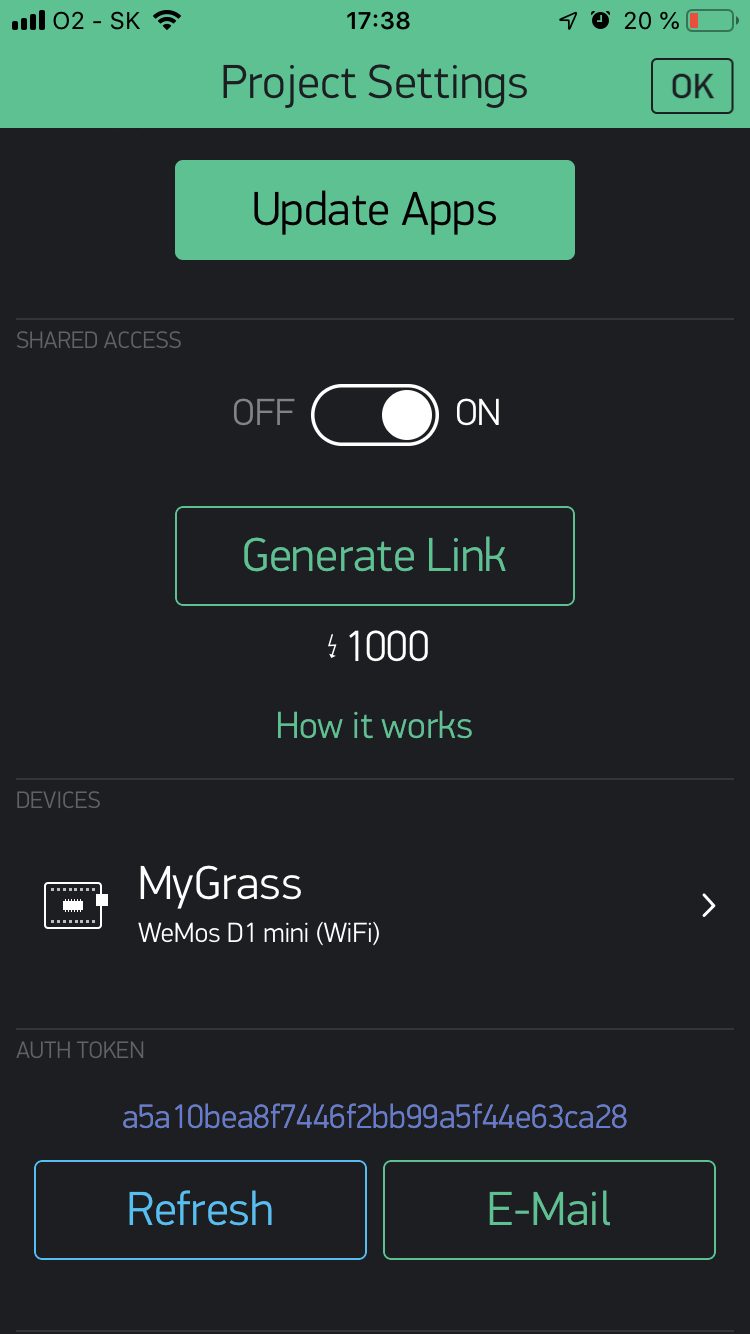
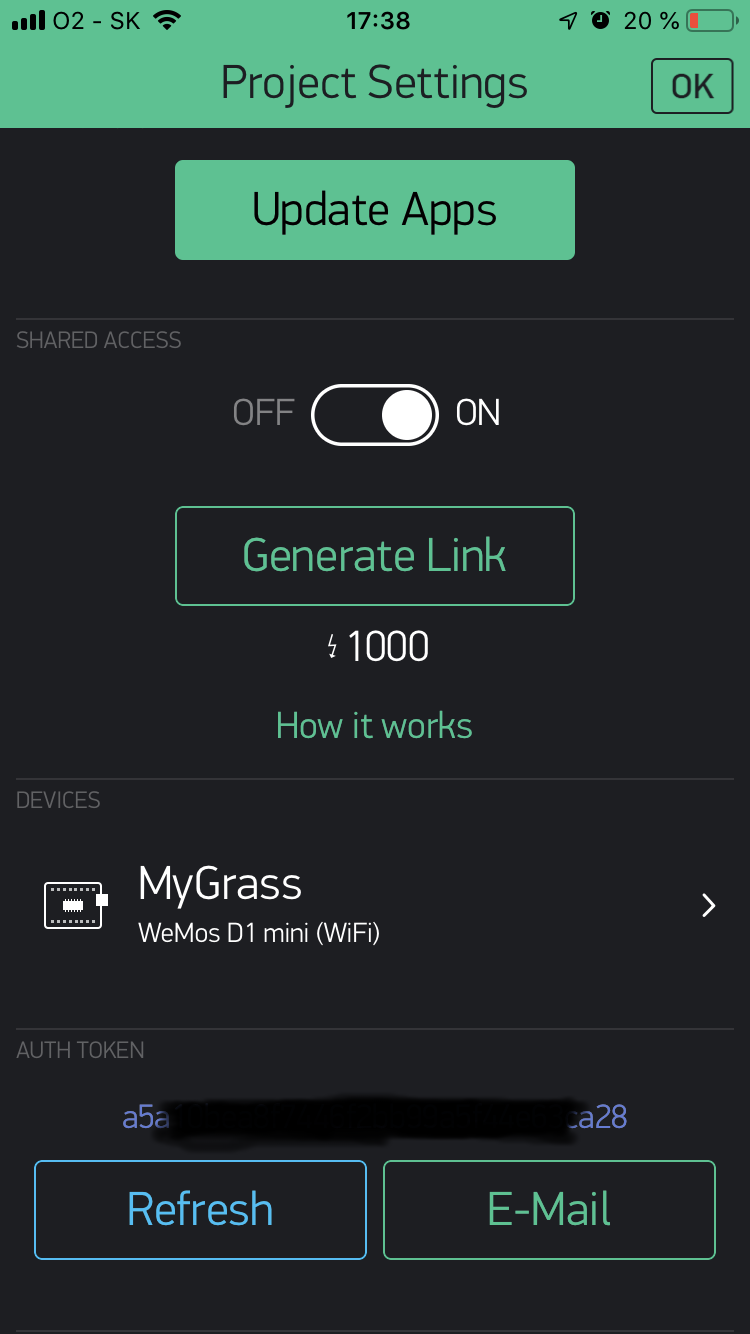
Fix hide token

Changed region(s): [[0.2147, 0.7991, 0.7667, 0.8606]]

diff --git a/README.md b/README.md
@@ -1,15 +1,15 @@
-# IOT Blynk remote switch
+## IOT Blynk remote switch
 
 ### Setting Up:
 1. Plug in the socket
-2. Go to your Blynk project settings & copy `AUTH TOKEN`
-[Blynk settings](https://raw.githubusercontent.com/dasperg/iot-blynk-remote-switch/master/docs/blynk-settings.png)
+2. Go to your Blynk project settings & copy `AUTH TOKEN`  
+![Blynk settings](https://raw.githubusercontent.com/dasperg/iot-blynk-remote-switch/master/docs/blynk-settings.png)
 3. Go to your wifi settings and wait, while you will see wifi network `ESP***`
 4. Connect to network
-5. Click to `Configure WIFI`
-[Configure WIFI](https://raw.githubusercontent.com/dasperg/iot-blynk-remote-switch/master/docs/configure-wifi.png)
+5. Click to `Configure WIFI`  
+![Configure WIFI](https://raw.githubusercontent.com/dasperg/iot-blynk-remote-switch/master/docs/configure-wifi.png)
 6. Choose network you want to connect the device (socket)
-7. Fill in network password & paste `AUTH TOKEN` from blynk app
-[Connect Wifi](https://raw.githubusercontent.com/dasperg/iot-blynk-remote-switch/master/docs/connect-wifi.png)
+7. Fill in network password & paste `AUTH TOKEN` from blynk app  
+![Connect Wifi](https://raw.githubusercontent.com/dasperg/iot-blynk-remote-switch/master/docs/connect-wifi.png)
 8. Click `save`
 9. Now you can go to blynk app and check device connection. It may take few minutes.
